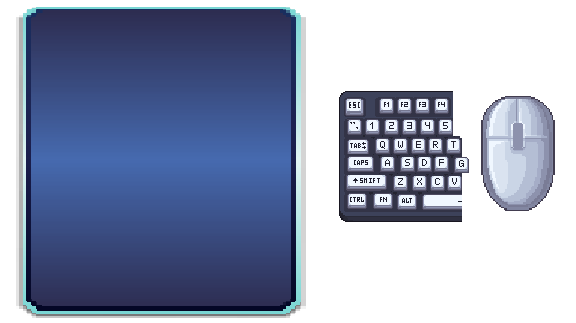
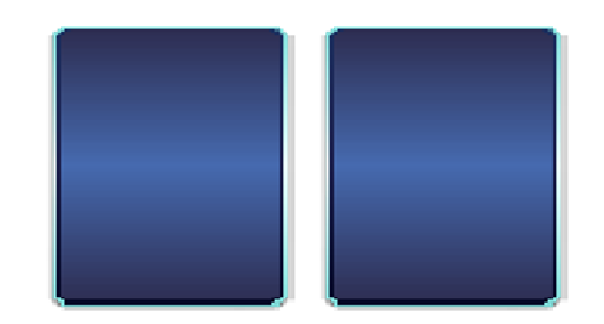
backup

diff --git a/src/EntityFactory.py b/src/EntityFactory.py
@@ -232,4 +232,83 @@ class EntityFactory:
                     list_anim.append(obj)
                 return list_anim
 
+            # ---BOSS---
+            case "B_idle":
+                list_anim = []
+                caminho = "./assets/mobs/orc_beserk/B_idle.png"
+                sheet = pygame.image.load(caminho).convert_alpha()
+                for x in range(5):
+                    surf = EntityFactory.get_image(sheet, x, 96, 96, 1)
+                    obj = Background(caminho, (0, 0))
+                    obj.surf = surf
+                    obj.rect = surf.get_rect(topleft=(0, 0))
+                    list_anim.append(obj)
+                return list_anim
+
+
+
+
+
+
+            case "B_walk":
+                list_anim = []
+                caminho = "./assets/mobs/orc_beserk/B_walk.png"
+                sheet = pygame.image.load(caminho).convert_alpha()
+                for x in range(7):
+                    surf = EntityFactory.get_image(sheet, x, 96, 96, 1)
+                    obj = Background(caminho, (0, 0))
+                    obj.surf = surf
+                    obj.rect = surf.get_rect(topleft=(0, 0))
+                    list_anim.append(obj)
+                return list_anim
+
+            case "B_attack":
+                list_anim = []
+                for x in range(4):
+                    caminho = f"./assets/mobs/orc_beserk/B_attack_{x}.png"
+                    sheet = pygame.image.load(caminho).convert_alpha()
+                    for x in range(9):
+                        surf = EntityFactory.get_image(sheet, x, 96, 96, 1)
+                        obj = Background(caminho, (0, 0))
+                        obj.surf = surf
+                        obj.rect = surf.get_rect(topleft=(0, 0))
+                        list_anim.append(obj)
+                    return list_anim
+
+            case "B_run+attack":
+                list_anim = []
+                caminho = f"./assets/mobs/orc_beserk/B_run+attack.png"
+                sheet = pygame.image.load(caminho).convert_alpha()
+                for x in range(5):
+                    surf = EntityFactory.get_image(sheet, x, 96, 96, 1)
+                    obj = Background(caminho, (0, 0))
+                    obj.surf = surf
+                    obj.rect = surf.get_rect(topleft=(0, 0))
+                    list_anim.append(obj)
+                return list_anim
+
+
+            case "B_hurt":
+                list_anim = []
+                caminho = f"./assets/mobs/orc_beserk/B_hurt.png"
+                sheet = pygame.image.load(caminho).convert_alpha()
+                for x in range(2):
+                    surf = EntityFactory.get_image(sheet, x, 96, 96, 1)
+                    obj = Background(caminho, (0, 0))
+                    obj.surf = surf
+                    obj.rect = surf.get_rect(topleft=(0, 0))
+                    list_anim.append(obj)
+                return list_anim
+
+            case "B_dead":
+                list_anim = []
+                caminho = f"./assets/mobs/orc_beserk/B_dead.png"
+                sheet = pygame.image.load(caminho).convert_alpha()
+                for x in range(4):
+                    surf = EntityFactory.get_image(sheet, x, 96, 96, 1)
+                    obj = Background(caminho, (0, 0))
+                    obj.surf = surf
+                    obj.rect = surf.get_rect(topleft=(0, 0))
+                    list_anim.append(obj)
+                return list_anim
         return None

diff --git a/src/Instructions.py b/src/Instructions.py
@@ -22,18 +22,44 @@ class Instructions:
     def _draw_comandos(self):
         font = pygame.font.SysFont("Lucida Sans Typewriter", 14)
         comandos = [
+            ("       COMANDOS", COLOR_WHITE),
             ("Defesa: Q", COLOR_WHITE),
             ("Andar para esquerda: A", COLOR_WHITE),
             ("Andar para direita: D", COLOR_WHITE),
             ("Pular: Espaço", COLOR_WHITE),
             ("Ataque: Botão esquerdo", COLOR_WHITE),
-            (" do mouse", COLOR_WHITE),
+            ("do mouse", COLOR_WHITE),
             ("Pressione qualquer tecla", (253, 255, 0)),
             ("     para voltar", (253, 255, 0)),
         ]
         x = 65
-        y_inicial = 50
-        espacamento = 35
+        y_inicial = 40
+        espacamento = 28
+
+        for i, (texto, cor) in enumerate(comandos):
+            y = y_inicial + i * espacamento
+            surf = font.render(texto, True, cor)
+            self.window.blit(surf, (x, y))
+
+
+# Elimine todos os orcs em sua caminho e vença o chefe para concluir a fase.
+        # Mantenha sua integridade e cumpra o objetivo.
+
+
+
+        font = pygame.font.SysFont("Lucida Sans Typewriter", 14)
+        comandos = [
+            ("         MISSÂO", COLOR_WHITE),
+            ("Elimine todos os orcs em", COLOR_WHITE),
+            ("seu caminho e vença o", COLOR_WHITE),
+            ("chefe para concluir", COLOR_WHITE),
+            ("a fase. Mantenha sua vida", COLOR_WHITE),
+            ("com as poções que os orcs", COLOR_WHITE),
+            ("deixam cair", COLOR_WHITE),
+        ]
+        x = 333
+        y_inicial = 40
+        espacamento = 28
 
         for i, (texto, cor) in enumerate(comandos):
             y = y_inicial + i * espacamento

diff --git a/src/Menu.py b/src/Menu.py
@@ -9,7 +9,7 @@ class Menu:
         self.window = window
 
         # Carregamento separado para evitar sobreposição
-        self.bg_surf = pygame.image.load("./assets/backgrounds/orig_lightning.png").convert_alpha()
+        self.bg_surf = pygame.image.load("./assets/backgrounds/PRE_ORIG_SIZE.png").convert_alpha()
         self.logo_surf = pygame.image.load("./assets/GUI/logo.png").convert_alpha()
 
         # Definição dos retângulos de posicionamento

diff --git a/src/CONST.py b/src/CONST.py
@@ -6,7 +6,7 @@ COLOR_YELLOW = (253,255,0)
 
 # M
 # No seu arquivo src/CONST.py
-MENU_OPTION = ("Jogar", "Como jogar", "Sair")
+MENU_OPTION = ("Jogar", "Comandos e Missão", "Sair")
 
 # E  # Essa constante aqui
 ENTITY_SPEED = {

diff --git a/src/GameOver.py b/src/GameOver.py
@@ -1,0 +1,6 @@
+
+
+
+class GameOver():
+    def init(self):
+        pass
